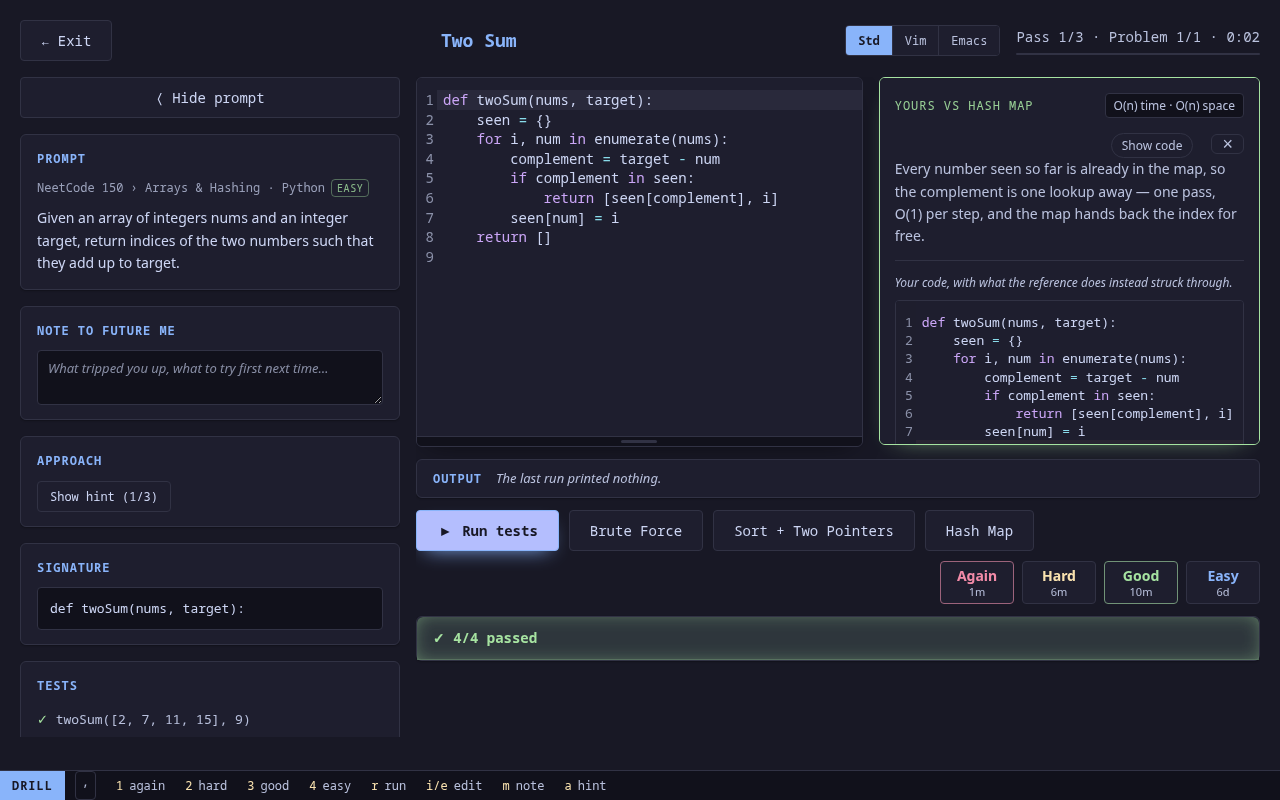
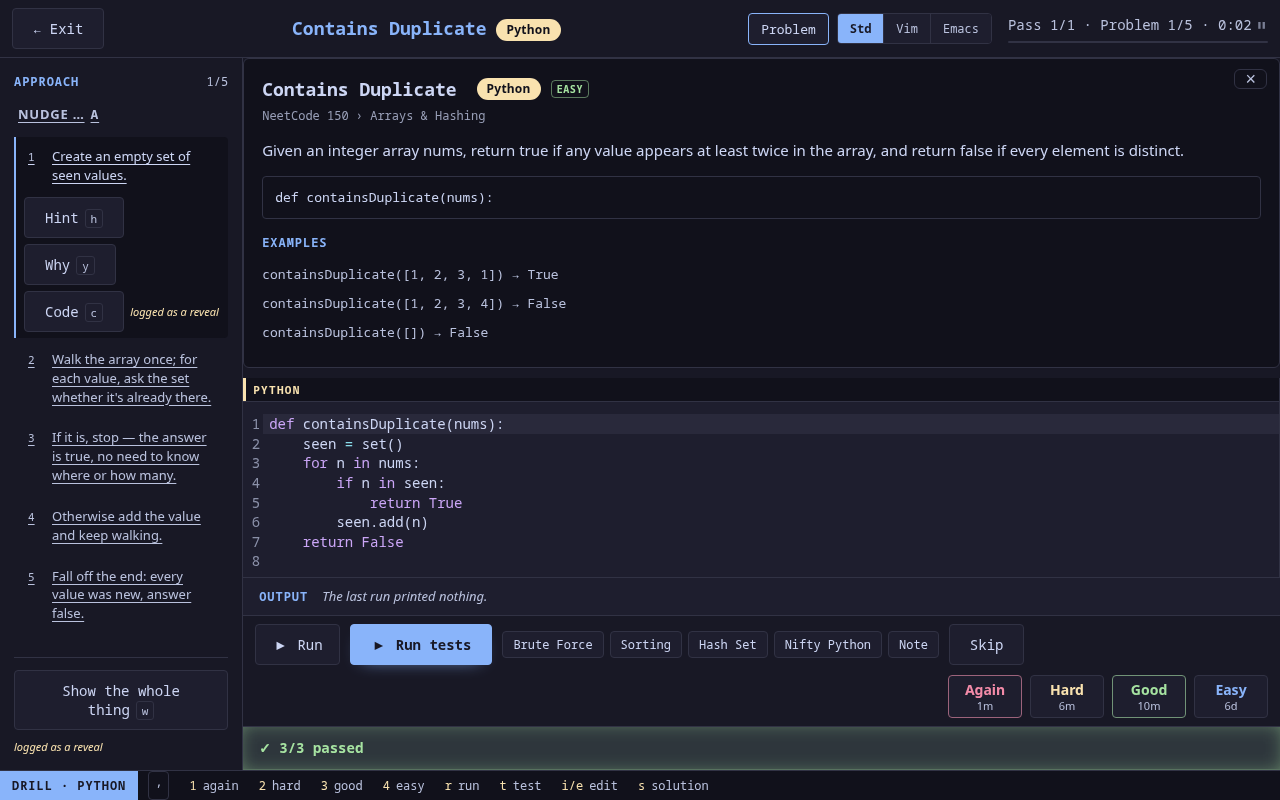
README: six languages, the panels, URLs, test layers and deploy; new screenshots
The hero screenshot still showed the solution beside the editor and the
old hint ladder. New ones: a desktop drill with a passing run, and the
three phone panels. The phone's Problem tab sat higher than the others
(display: flex on one button); the tabs are inline-flex and centred now.

diff --git a/assets/style.css b/assets/style.css
@@ -1779,6 +1779,8 @@ button.results-summary:focus-visible {
 }
 
 .panel-tab {
+    display: inline-flex;
+    align-items: center;
     font-family: var(--font-ui);
     font-size: 13px;
     padding: 5px 12px;
@@ -2651,9 +2653,12 @@ gleam-compare .cm-mergeSpacer {
     /* Three panels, swiped between: the problem (prompt and rail), the code
        (editor, output, results) and the solution. The run bar, with the
        grades, stays on every one. */
-    .panel-tabs,
-    .panel-problem-tab {
+    .panel-tabs {
         display: flex;
+    }
+
+    .panel-problem-tab {
+        display: inline-flex;
     }
 
     .drill-body.panel-code .plan-rail,

diff --git a/README.md b/README.md
@@ -16,17 +16,29 @@
 </p>
 
 <p align="center">
-  <img src="docs/screenshots/drill.png" alt="A Python drill: prompt and hint ladder on the left, the editor in the middle, your code diffed against the reference solution on the right, four cases green below" width="900">
+  <img src="docs/screenshots/drill.png" alt="A Python drill: the step rail on the left, the problem above the editor, a passing run with all three cases green, and the four grade buttons with their intervals" width="900">
 </p>
 
 ## What it is
 
-The NeetCode 150 as an Anki deck, in five languages. Solve each problem in a
+The NeetCode 150 as an Anki deck, in six languages. Solve each problem in a
 real editor against a real test harness, grade yourself Again/Hard/Good/Easy,
 and FSRS-6 schedules the next review. Gleam, Python and TypeScript run in the
-browser; Elixir, Go and Haskell run sandboxed on the server. Works as a guest, offline,
-on a phone; an account syncs progress. Built end to end in Gleam (Lustre +
-Wisp, scheduler shared between them).
+browser; Elixir, Go and Haskell run sandboxed on the server. Works as a guest,
+offline, on a phone; an account syncs progress. Built end to end in Gleam
+(Lustre + Wisp, scheduler shared between them).
+
+- **The answer is never beside your code.** The solution takes the editor's
+  place (`s` on a desktop); a step rail gives hints one rung at a time.
+- **A phone gets three panels**, swiped between: the problem, your code, the
+  solution.
+- **Keyboard first.** Every screen's keys are in the status bar and behind `?`.
+- **Every screen has a URL** (`/t/neetcode-150/stats`), so Back and reload work.
+- **Skip** a problem without grading it; it stays due.
+
+<p align="center">
+  <img src="docs/screenshots/phone.png" alt="A drill on a phone as three panels: the problem and step rail, the editor with the run bar and grades, and a revealed solution" width="720">
+</p>
 
 ## Quick start
 
@@ -64,17 +76,32 @@ Gleam 1.18.1, Erlang/OTP 27, bun 1.3.14, Postgres 13+; `python3`, `elixir`,
 make dev           # frontend :1234 + backend :1637
 make build         # regenerate content, bundle workers, build dist/
 make bundle        # dist/ only, no content regeneration — what the web image runs
-make verify        # every solution + scheduler + app tests
-make e2e           # real browser against built app + backend
-gleam run -m birdie  # review screen/payload snapshot changes from make app-test
+make serve-dist    # dist/ on :4173, URLs fall back to the app like production
+make verify        # every solution + scheduler + app and server unit tests
+make app-test      # app unit, snapshot and property tests
+make server-test   # server unit and property tests (no Postgres)
+make e2e           # five browser suites against :4173 + backend :1637
+make tour          # every screen and action in a real browser, ~12 min
+make sql           # regenerate the typed SQL modules (Squirrel)
 make check-format  # gleam format --check, all four projects
+gleam run -m birdie  # review snapshot changes from make app-test
 ```
 
-Layout: `src/` Lustre app, `server/` Wisp backend, `fsrs/` and `wire/`
-shared between both targets, `drills/` content. `dist/` is build output, not
-committed — run `make build` once before `make e2e`, `make run` or
-`make serve-dist`, which all serve it.
-Why it is shaped this way, and how it deploys: [docs/design.md](docs/design.md).
+Tests come in layers: unit tests, [birdie](https://hex.pm/packages/birdie)
+snapshots of every screen and payload, [qcheck](https://hex.pm/packages/qcheck)
+properties (undo is exact, merges are idempotent), five end-to-end suites, and
+the tour, which also fails if any user action goes unexercised.
+
+Layout: `src/` Lustre app (one folder per page, Elm style), `server/` Wisp
+backend, `fsrs/` and `wire/` shared between both targets, `drills/` content.
+`dist/` is build output, not committed — run `make build` once before
+`make e2e`, `make run` or `make serve-dist`, which all serve it. Why it is
+shaped this way, and how to add a page:
+[docs/design.md](docs/design.md#layout).
+
+**Deploy:** a push to `main` deploys `web` and `api` on Railway to
+[gleamdrill.com](https://gleamdrill.com). By hand:
+`railway redeploy --service <web|api> --commit <sha>`.
 
 ### Code audit
 
@@ -98,7 +125,7 @@ checked by hand.
 ## Contributing
 
 Add a solution + harness under `drills/<language>/`, a note in `drills/notes/`,
-a hint ladder in `drills/approaches/`, run `make verify`, open a PR.
+its approach steps (the rail) in `drills/approaches/`, run `make verify`, open a PR.
 
 ## Support
 
